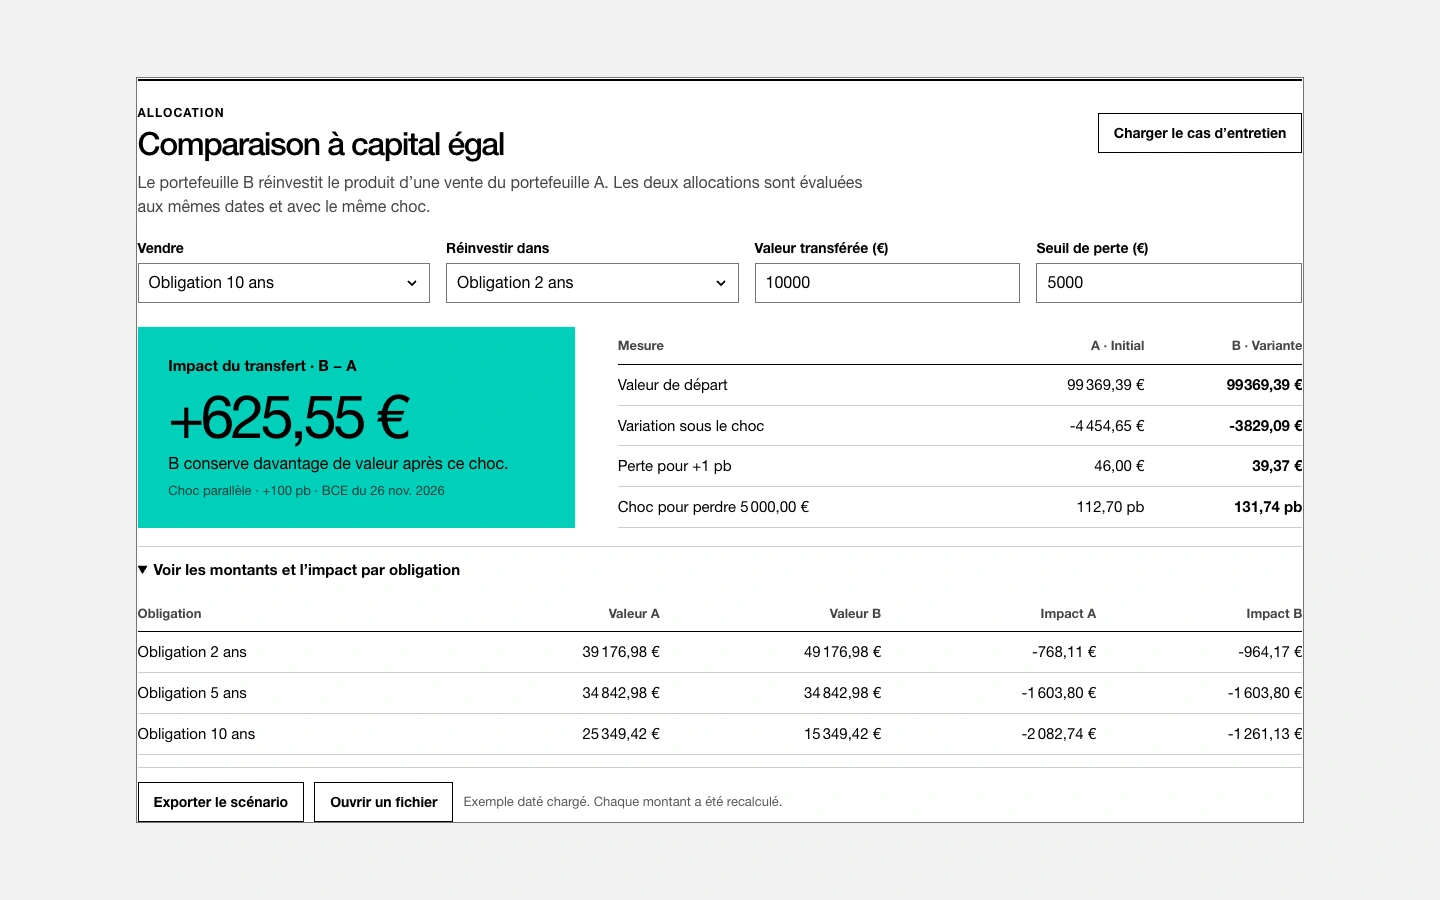
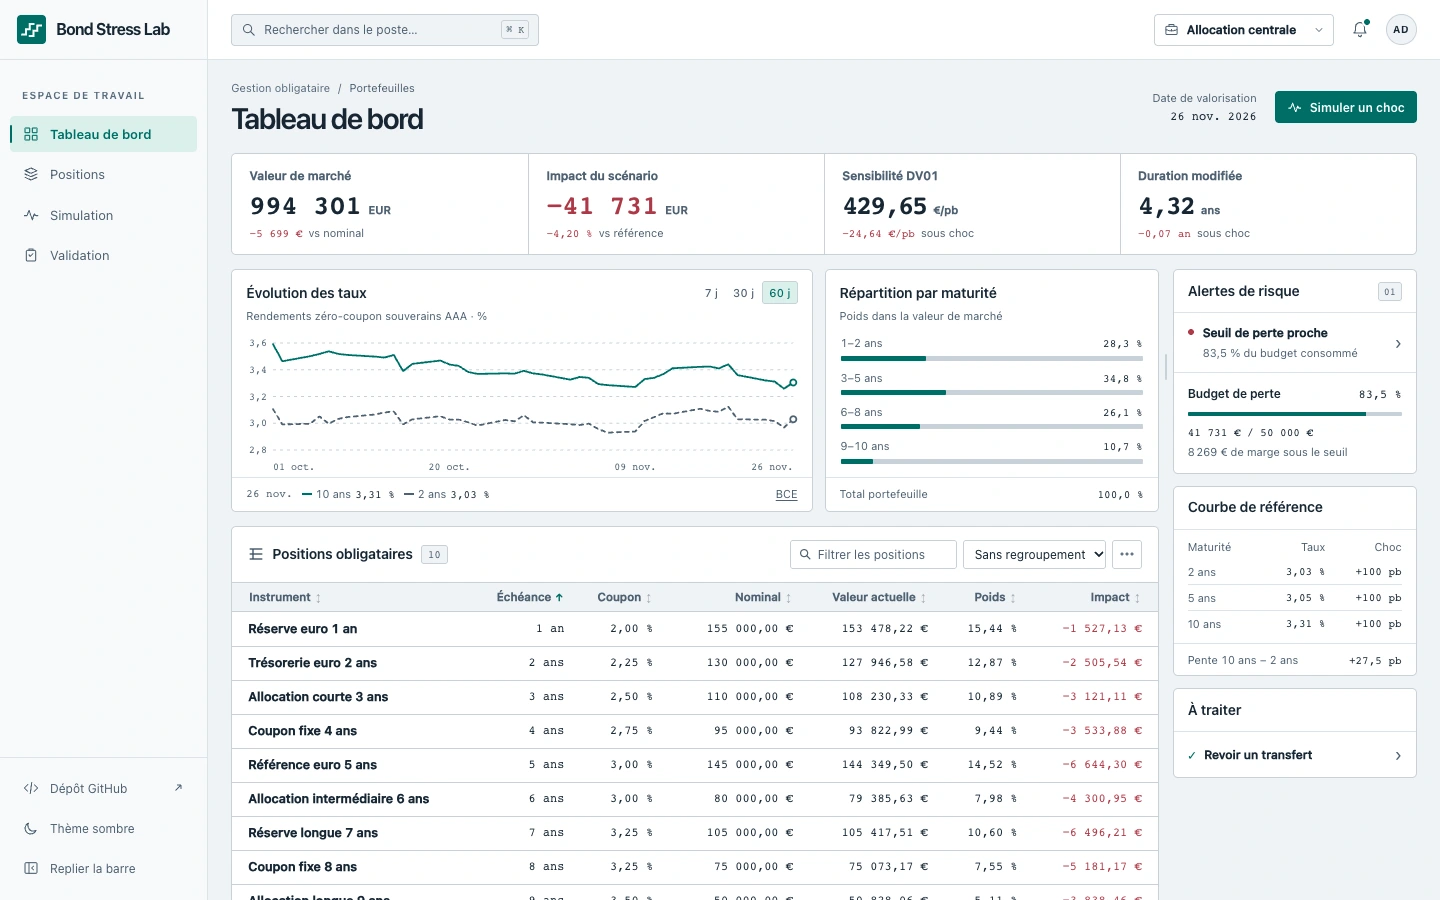
Show the interactive fixed-income workstation on the project card

diff --git a/index.html b/index.html
@@ -289,7 +289,7 @@ SQL uses a generic database symbol. -->
         <article id="bond-stress-lab" class="project project-featured" data-project>
           <header class="bond-heading">
             <p class="project-meta">Fixed income · personal project · November 2026</p>
-            <h3 class="project-title"><a href="https://bond-stress-lab.vercel.app/?cas=entretien#comparer">Bond Stress Lab</a></h3>
+            <h3 class="project-title"><a href="https://bond-stress-lab.vercel.app/">Bond Stress Lab</a></h3>
             <p class="project-tagline">If interest rates rise by one percentage point, how much loss could a shorter bond portfolio avoid?</p>
             <p class="project-links">
               <a class="ext" href="https://bond-stress-lab.vercel.app/?cas=entretien#comparer">Try the scenario (French)</a>
@@ -297,13 +297,13 @@ SQL uses a generic database symbol. -->
             </p>
           </header>
           <figure class="shot">
-            <a href="https://bond-stress-lab.vercel.app/?cas=entretien#comparer" tabindex="-1">
+            <a href="https://bond-stress-lab.vercel.app/" tabindex="-1">
               <picture>
                 <source media="(prefers-color-scheme: dark)" srcset="assets/img/projets/bond-stress-lab-sombre.webp">
-                <img src="assets/img/projets/bond-stress-lab.webp" width="1440" height="900" loading="lazy" decoding="async" alt="Bond Stress Lab compares two portfolios worth €99,369.39 each. A one-point rate rise produces a smaller loss after moving €10,000 into the two-year bond.">
+                <img src="assets/img/projets/bond-stress-lab.webp" width="1440" height="900" loading="lazy" decoding="async" alt="Bond Stress Lab dashboard with ten model bond positions, ECB yield history and a simulated loss of €41,731 against a €50,000 loss limit.">
               </picture>
             </a>
-            <figcaption>Both portfolios start with the same market value. The table shows how each bond contributes to the change.</figcaption>
+            <figcaption>The dashboard tracks interest-rate exposure across ten model holdings. Select a bond to inspect its cash flows, or test a transfer in the worked example.</figcaption>
           </figure>
           <div class="bond-details">
             <p>The worked example moves €10,000 from a ten-year bond into a two-year bond. Using the European Central Bank’s yield curve for 26 November 2026, the same rate rise produces a simulated loss of €3,829.09 after the transfer, down from €4,454.65. If rates fall, the shorter portfolio also gains less.</p>
